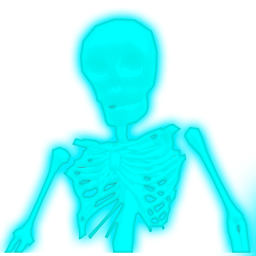
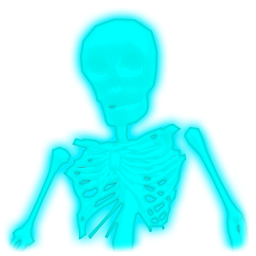
skeleton

Changed region(s): [[0.875, 0.6875, 1.0, 1.0], [0.0, 0.9062, 0.1562, 1.0], [0.4062, 0.9375, 0.5625, 1.0]]

diff --git a/src/modules/grave.ts b/src/modules/grave.ts
@@ -258,47 +258,26 @@ export function mayorGhostDialog(npc: NPC, doorHouse: TTHouse) {
   return [
     {
       text: `Why are you looking at me like that? Yes, I am completely naked.`,
-      triggeredByNext: () => {
-        npc.playAnimation(`talk2`, true, 10.3)
-      },
     },
     {
       text: `And the omnipresent power of censorship can’t even do anything about me. Because aside from being naked, I am also dead.`,
-      triggeredByNext: () => {
-        npc.playAnimation(`deny2`, true, 1.67)
-      },
     },
     {
       text: `Like what are they going to tell me? —
 Hey Fine Sir dead skeleton, would you mind at least using a towel?`,
-      triggeredByNext: () => {
-        npc.playAnimation(`deny3`, true, 4.97)
-      },
     },
     {
       text: `Oh no! If some smug fellow in a suit, from the DAO censorship department tries telling me something like that, he will get fired. Because everyone at the DAO knows that the dead does not speak.`,
-      triggeredByNext: () => {
-        npc.playAnimation(`deny3`, true, 4.97)
-      },
     },
     {
       text: `And nothing, or no one is going to get in the way of that. No matter how hard they try.`,
-      triggeredByNext: () => {
-        npc.playAnimation(`talk2`, true, 3.97)
-      },
     },
     {
       text: `Ofcourse on the other side being a naked skeleton means it isn’t easy finding friends.`,
-      triggeredByNext: () => {
-        npc.playAnimation(`talk2`, true, 3.97)
-      },
     },
      {
       text: `My neighbor from that house over there, recently died, and by the rumors her spirit still lives there.
 I am dying to know her a little better.`,
-      triggeredByNext: () => {
-        npc.playAnimation(`talk2`, true, 3.97)
-      },
     },
     {
       text: `If you ever get to her, ask her if she wants an athletically built skeleton to take her out sometime.`,

diff --git a/src/modules/trickOrTreat.ts b/src/modules/trickOrTreat.ts
@@ -305,17 +305,18 @@ export function addHouses(progression: HalloweenState) {
       {
         position: new Vector3(-1, 0, 0.75),
         rotation: Quaternion.Euler(0, 90, 0),
+		scale: new Vector3(1.35, 1.35, 1.35)
       },
       npc_model_paths.ghost1,
       () => {
         mayorGhost.talk(mayorGhostDialog(mayorGhost, doorHouse4), 0)
-        mayorGhost.playAnimation(`idle1`, true, 9.8)
+        mayorGhost.playAnimation(`idle2`, false, 10.65)
       },
 
       {
         portrait: {path: 'images/portraits/skeleton.png'},
         reactDistance: 12,
-        idleAnim: `Idle`,
+        idleAnim: `idle2`,
         faceUser: false,
         onlyExternalTrigger: true,
 

diff --git a/src/resources/model_paths.ts b/src/resources/model_paths.ts
@@ -11,7 +11,7 @@ export const npc_model_paths = {
     catLover: 'models/NPCs/NPC Cat Lover.glb',
     farmer: 'models/NPCs/hunter_villager.glb',
     ghostblaster: 'models/NPCs/illusionist_villager.glb',
-    ghost1: 'models/NPCs/ghost1.glb',
+    ghost1: 'models/NPCs/skeleton.glb',
     girl:  'models/NPCs/girl.glb'
 }
 
